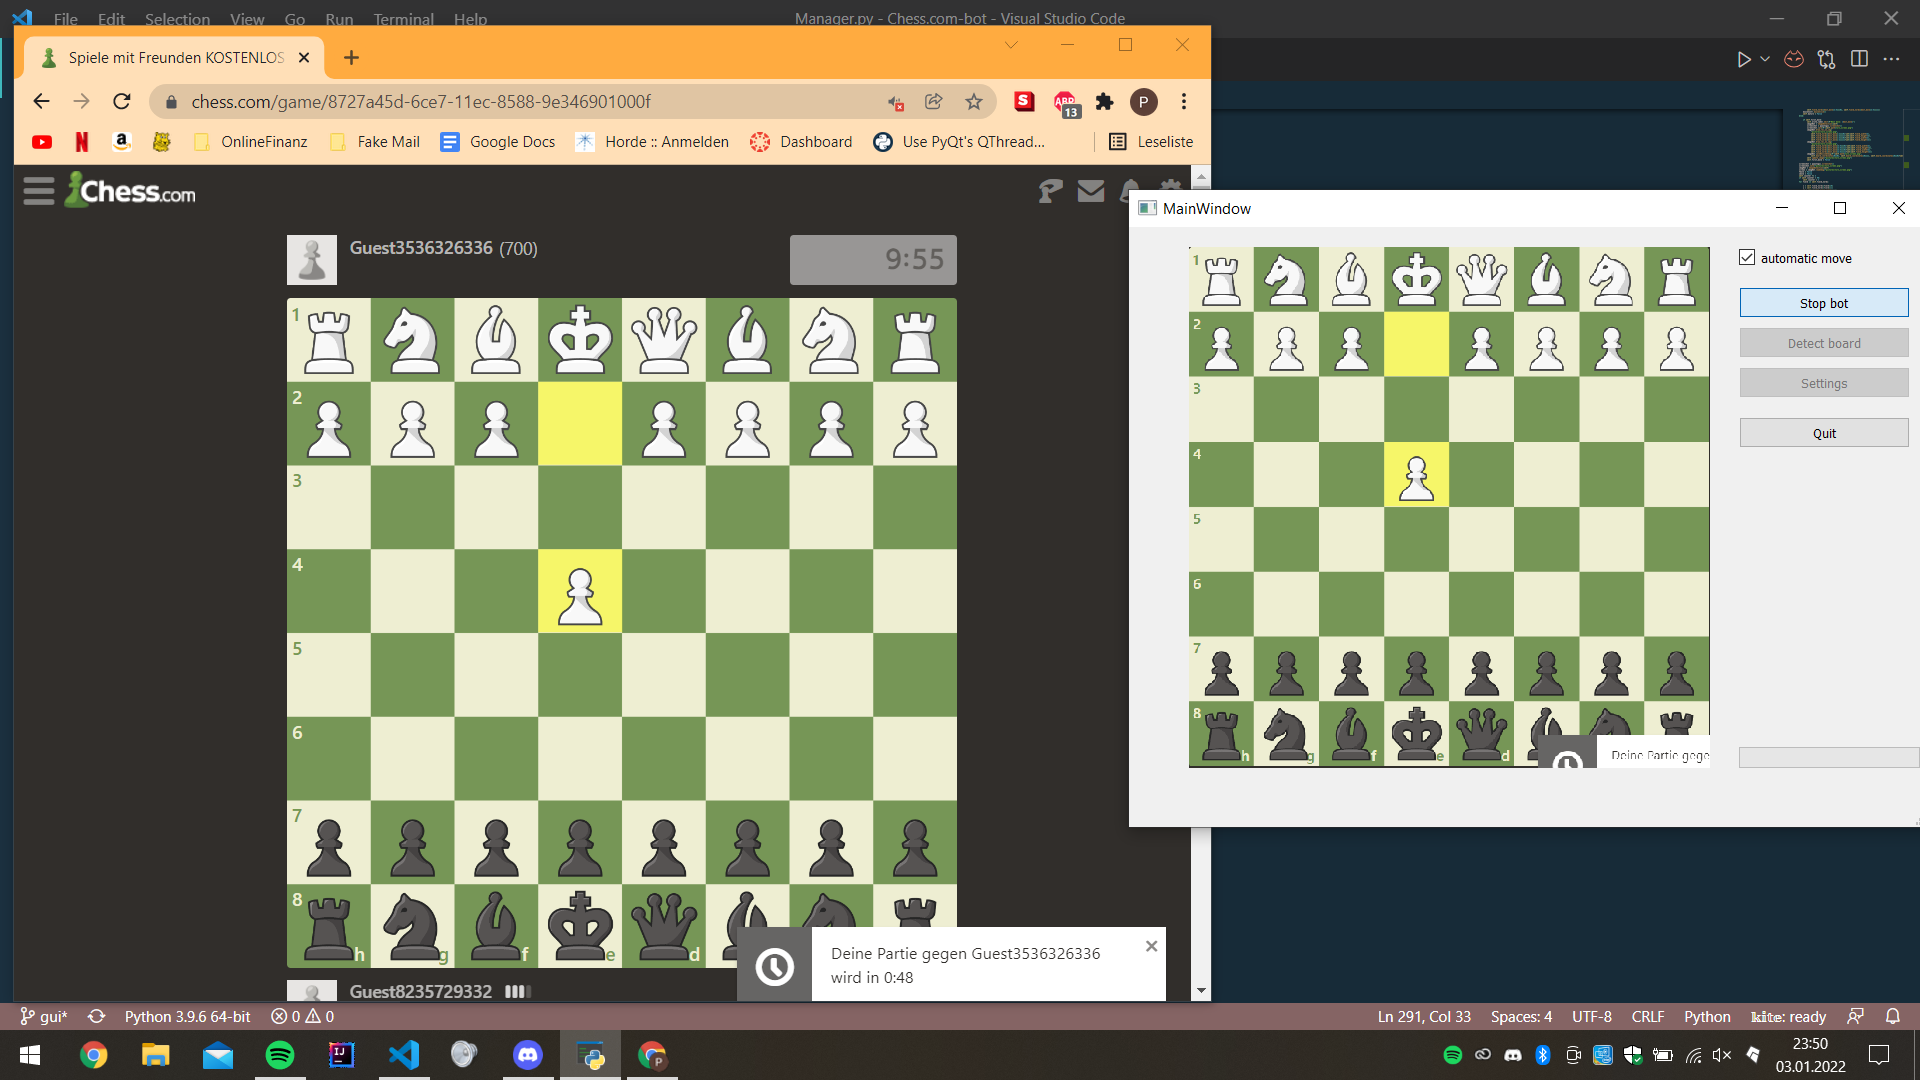
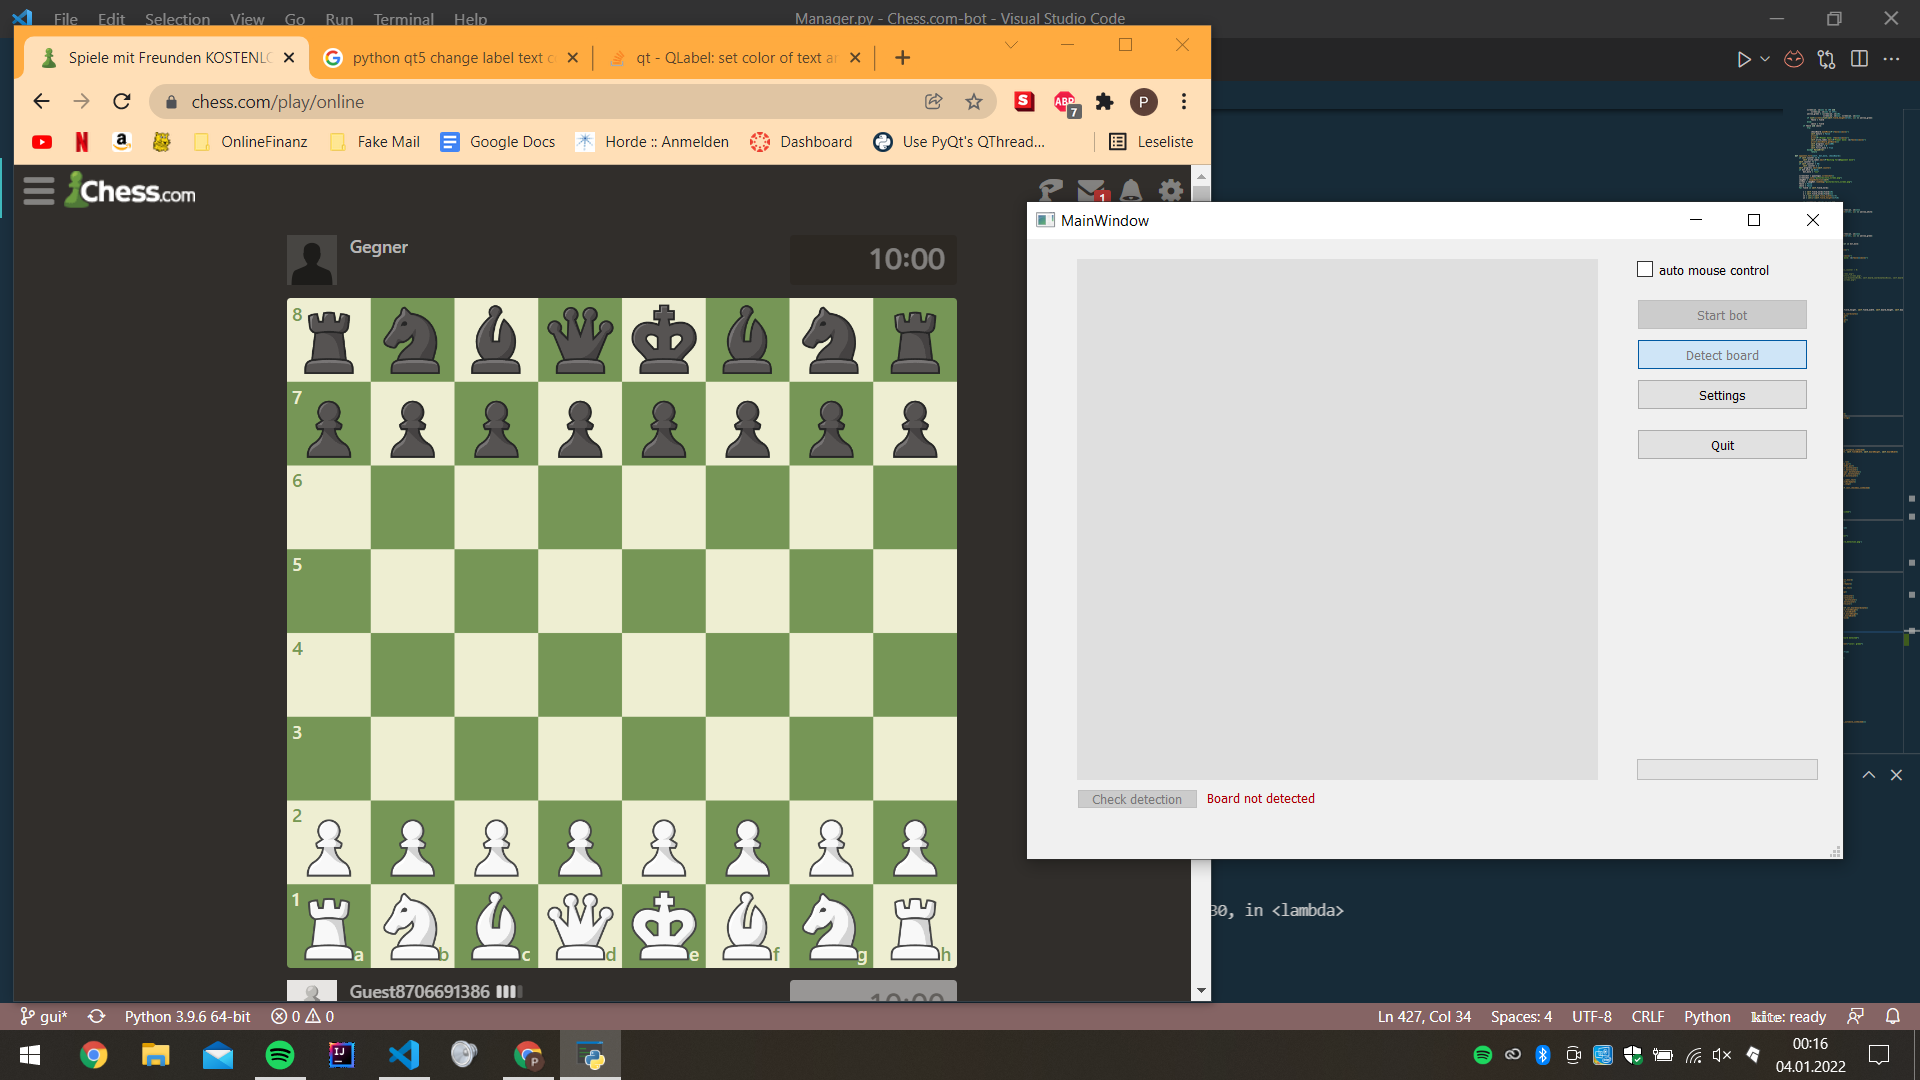
changed gui interace

diff --git a/bot/Manager.py b/bot/Manager.py
@@ -426,6 +426,16 @@ class GUI(QMainWindow):
         self.thread.finished.connect(
             lambda: self.b_detect.setEnabled(True)
         )
+        self.manager.finished.connect(
+            lambda: self.label_board_found.setText("Board detected")
+        )
+        self.manager.finished.connect(
+            lambda: self.label_board_found.setStyleSheet("color: green")
+        )
+
+        self.manager.finished.connect(
+            lambda: self.b_checkDetection.setEnabled(True)
+        )
 
     def set_boardCoordinates(self, board_coordinates):
         self.boardCoordinates = board_coordinates
